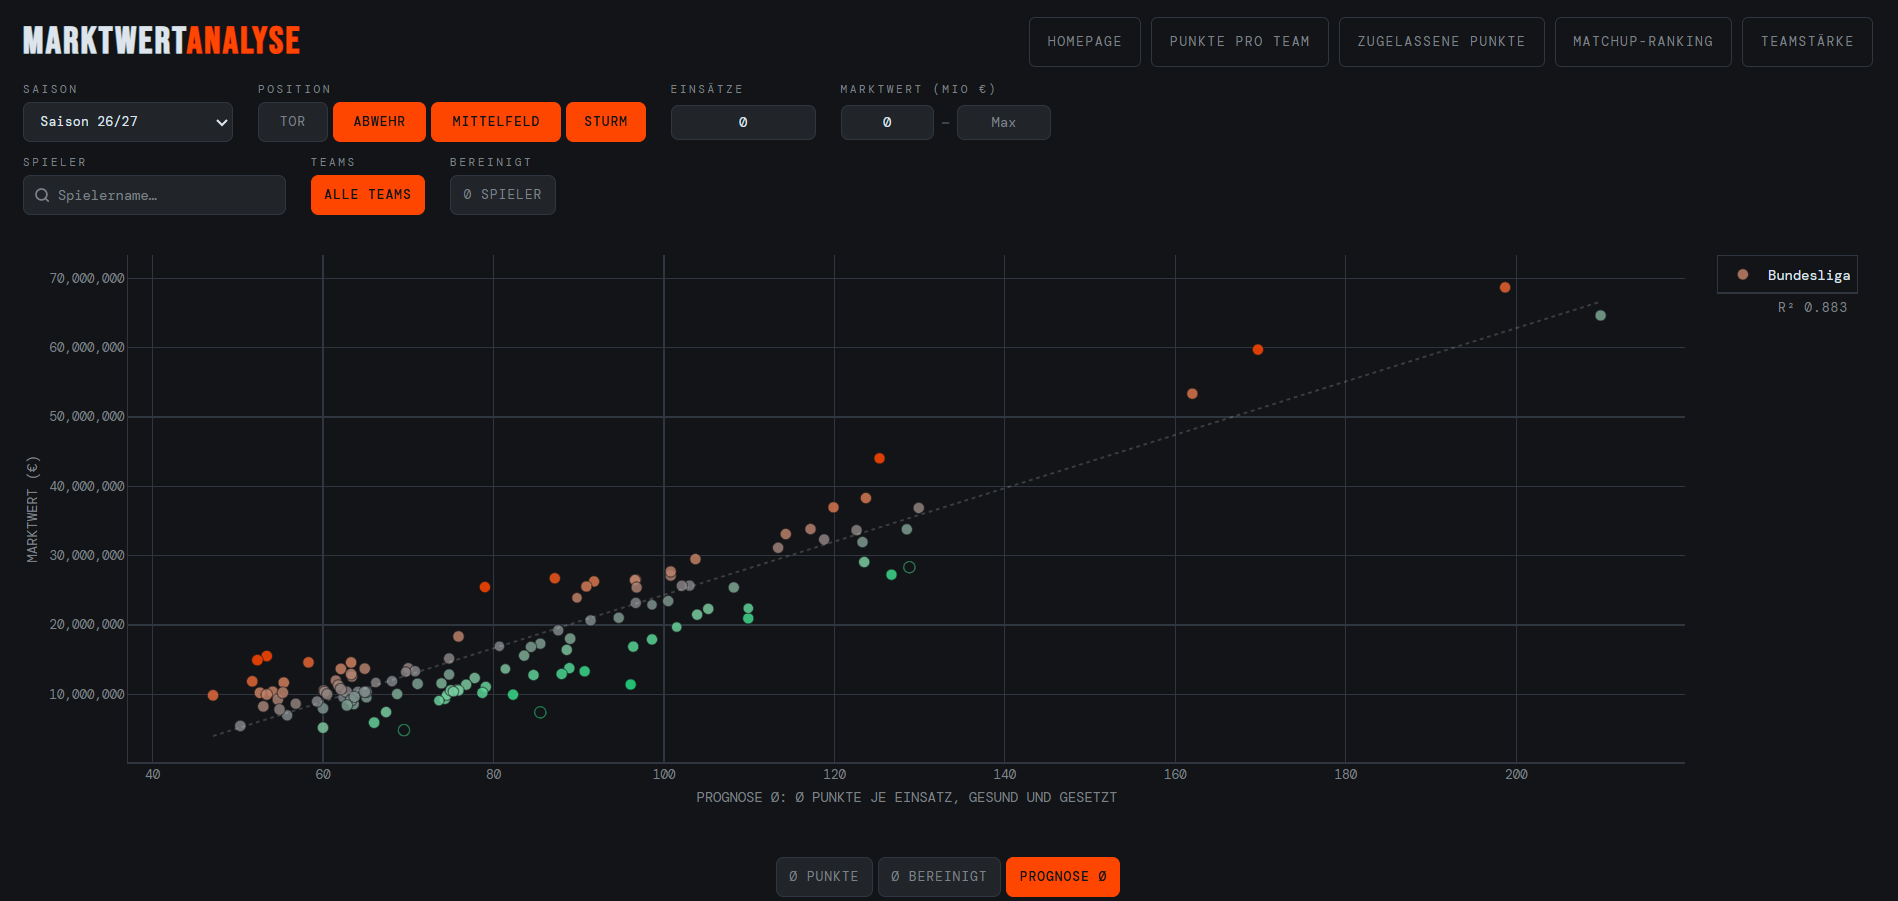
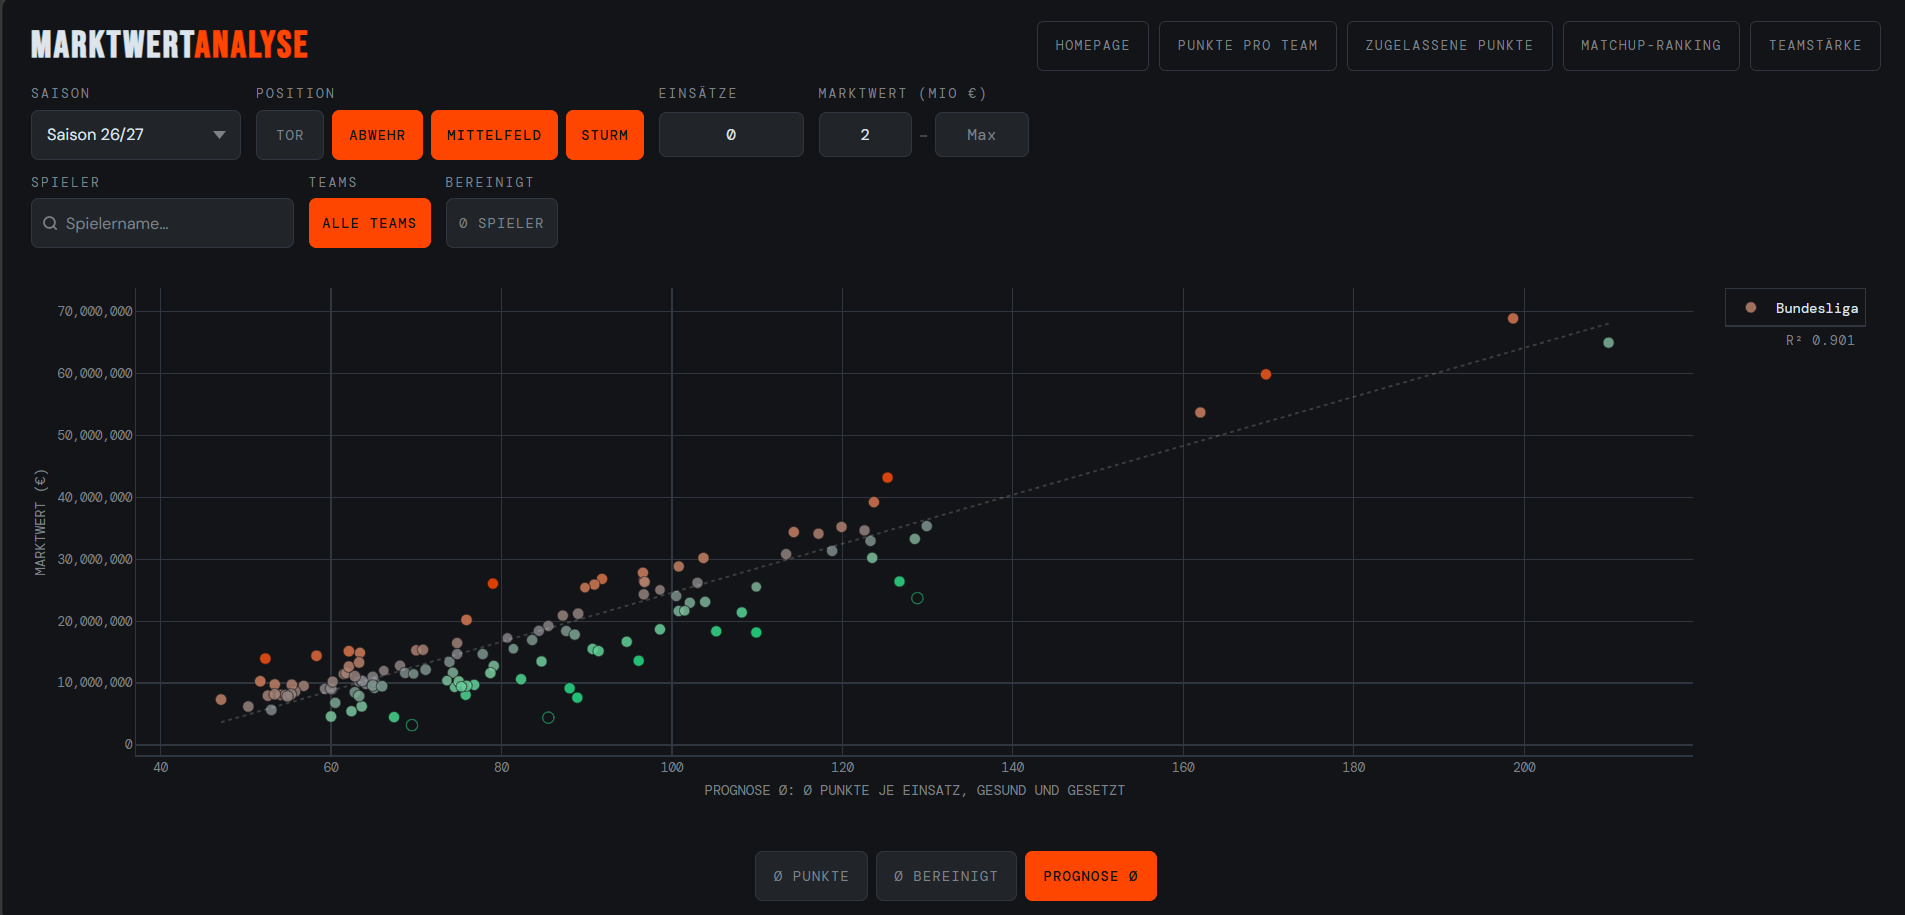
README Überarbeitung
Das README beginnt jetzt mit der Fragestellung und zeigt jedes Werkzeug mit
einem Screenshot; das Architekturdiagramm ist ein Mermaid-Diagramm.
Installation, Tests und Fetcher-Kommandos bleiben vollständig erhalten, stehen
aber in einem aufklappbaren Abschnitt.

diff --git a/README.md b/README.md
@@ -2,60 +2,140 @@
 
 [![CI](https://github.com/noltinho/kickbase-analytics/actions/workflows/ci.yml/badge.svg)](https://github.com/noltinho/kickbase-analytics/actions/workflows/ci.yml)
 
-**[▶ Live-Demo](https://noltinho.github.io/kickbase-analytics/)** — alle
-Werkzeuge laufen direkt im Browser, ohne Installation und ohne Login.
+**[▶ Live-Demo öffnen](https://noltinho.github.io/kickbase-analytics/)** — fünf
+Analysewerkzeuge für Bundesliga und 2. Bundesliga, direkt im Browser, ohne
+Installation und ohne Login.
 
-Statische Analysewerkzeuge für Bundesliga und 2. Bundesliga: Ein Python-Fetcher
-verdichtet Team-, Spieler- und Marktwertdaten, ein gegnerbereinigtes
-Teamstärkemodell bewertet Matchups, und fünf frameworkfreie Werkzeuge machen
-die Ergebnisse direkt im Browser nutzbar.
+## Das Problem
+
+Im Kickbase-Manager entscheidet der Marktwert. Er ist die einzige Zahl, die
+jeder Mitspieler sieht — und er erklärt die spätere Punkteausbeute nur grob:
+Über 1.571 Starter-Spielersaisons kommt eine reine Marktwert- und
+Positionsschätzung auf einen mittleren absoluten Fehler von **19,28 Punkten**.
+
+Dieses Projekt misst stattdessen. Ein gegnerbereinigtes Teamstärkemodell
+bewertet, wie schwer ein Spielplan wirklich ist. Ein Spielermodell schätzt den
+Punkteschnitt eines gesetzten Spielers aus seiner Historie, seinem Umfeld und
+seiner Position — und macht dabei **13,7 % weniger Fehler** als der
+Marktwert allein.
 
 [![Marktwert gegen prognostizierten Punkteschnitt](screenshots/marktwert-prognose.png)](https://noltinho.github.io/kickbase-analytics/scatter.html)
 
-<sub>Marktwert-Analyse: Marktwert gegen den prognostizierten Punkteschnitt je
-Einsatz (Bundesliga 2026/27). Die Prognose stammt aus dem fallweisen
-Spielermodell, R² bezieht sich auf die eingezeichnete Regression.</sub>
+<sub><b>Marktwert-Analyse.</b> Jeder Punkt ein Spieler: Marktwert gegen den
+prognostizierten Punkteschnitt je Einsatz (Bundesliga 2026/27, Feldspieler ab
+2 Mio. €). Wer deutlich unter der Regressionsgeraden liegt, ist für seine
+erwartete Leistung günstig.</sub>
 
-Das Projekt verbindet Datenbeschaffung, robuste Datenmodellierung,
-Walk-forward-Evaluation und eine bewusst schlanke Visualisierung ohne
-Frontend-Buildschritt.
+> Inoffizielles, nicht mit Kickbase oder Transfermarkt verbundenes Forschungs-
+> und Portfolio-Projekt. Hinweise zu Fremddaten und Marken stehen in
+> [NOTICE.md](NOTICE.md).
 
-> Inoffizielles, nicht mit Kickbase oder Transfermarkt verbundenes
-> Forschungs- und Portfolio-Projekt. Hinweise zu Fremddaten und Marken stehen
-> in [NOTICE.md](NOTICE.md).
+## Die Werkzeuge
 
-## Was die Anwendung zeigt
+Jede Oberfläche beantwortet genau eine Frage.
 
-- **Teampunkte:** erzielte Kickbase-Punkte nach Team und Mannschaftsteil
-- **Matchup:** zugelassene Punkte des Gegners, nach Position und Spielort
-- **Matchup-Score:** Spielplanraster von −3 bis +3, wahlweise als Paarungs- oder
-  reine Gegnerstärke
-- **Teamstärke-Editor:** lokale Abweichungen vom Modell, ohne die berechnete
-  Basis zu überschreiben
-- **Marktwert-Analyse:** Marktwert gegen erzielte beziehungsweise prognostizierte
-  Durchschnittspunkte
+### Welche Spieltage werden leicht, welche schwer?
+
+[![Matchup-Ranking](screenshots/ranking.png)](https://noltinho.github.io/kickbase-analytics/score.html)
+
+<sub><b>Matchup-Ranking.</b> Der Spielplan jedes Teams von −3 bis +3, aus dem
+gegnerbereinigten Teamstärkemodell abgeleitet (Bundesliga 2026/27, Spieltage 2
+bis 6). Zu sehen ist die reine Gegnerstärke; die Paarungsstärke lässt sich
+umschalten. Voreingestellt ist der Zeitraum vom nächsten Spieltag bis zum Ende
+der Hinrunde — der Horizont, über den ein Kader geplant wird.</sub>
+
+### Gegen wen lohnt sich welche Position?
+
+[![Zugelassene Punkte](screenshots/matchup.png)](https://noltinho.github.io/kickbase-analytics/matchup.html)
+
+<sub><b>Zugelassene Punkte.</b> Wie viele Punkte eine Mannschaft ihren Gegnern
+erlaubt, aufgeschlüsselt nach Mannschaftsteil und wahlweise nach Position und
+Spielort (Bundesliga 2025/26, alle 34 Spieltage). Zwischen der durchlässigsten
+und der stabilsten Defensive der Liga liegt fast der Faktor drei — 48.535 gegen
+17.425 Punkte.</sub>
+
+### Wo im Kader entstehen die Punkte überhaupt?
+
+[![Punkte pro Team](screenshots/teampunkte.png)](https://noltinho.github.io/kickbase-analytics/teampunkte.html)
+
+<sub><b>Punkte pro Team.</b> Erzielte Punkte je Startelf-Spieler, nach
+Mannschaftsteil und Tabellenplatz (Bundesliga 2025/26). Die Zahl in jedem Feld
+ist der Ligarang des Vereins auf dieser Position. Wechselnde Spieler werden über
+den Spielplan aufgelöst — die Punkte eines Wintertransfers zählen zum Verein,
+für den er an dem Spieltag tatsächlich auflief.</sub>
+
+### Zwei weitere Ansichten
+
+- **Teamstärke-Editor** — eigene Einschätzung gegen das Modell setzen, ohne die
+  berechnete Basis zu verlieren. Abweichungen werden als Differenz gespeichert
+  und auf jede neue Modellbasis übertragen.
+- **Marktwert-Analyse** — das Bild oben, wahlweise gegen erzielte, bereinigte
+  oder prognostizierte Durchschnittspunkte.
 
 Alle Seiten sind statische Dateien. Sie laden ausschließlich versionierte
-JSON-Dateien aus `data/`; persönliche Logins oder Zugangsdaten gelangen nicht
-ins Frontend.
+JSON-Dateien aus `data/`; persönliche Logins oder Zugangsdaten gelangen nie ins
+Frontend.
 
-## Architektur
+## Was belegt ist
 
-```text
-Kickbase v4 ── fetch.py ──► data/data_*.json + matchdays_*.json
-                       └──► history.json ──► carryover.json
+Prognostiziert wird der Punkteschnitt je Einsatz unter der Bedingung, dass ein
+Spieler in der Zielsaison gesetzt ist. Die Evaluation ist strikt walk-forward:
+Für jede Zielsaison werden nur Informationen verwendet, die vor deren Beginn
+bekannt waren.
 
-Archiv + Spielplan + Saisonquoten ──► Teamstärke-Ridge ──► ratings.json
-historisches Panel + Kaderdaten ─────► Spielermodelle ───► projections*.json
+| Modell | MAE | |
+|---|---:|---|
+| **Fallweises Spielermodell** | **16,64** | **13,7 % weniger Fehler** als die Baseline |
+| Marktwert-/Positionsbaseline | 19,28 | Vergleichslinie ohne eigene Spielerhistorie |
 
-data/*.json ──► statische HTML-/JavaScript-Dashboards
+- **1.571 Starter-Spielersaisons** über die Zielsaisons 2019–2025
+- Paarweiser Vorsprung **2,64 MAE-Punkte**, saisongeclustertes
+  95-%-Intervall **2,23 bis 3,00**
+- Gewinnt in **7 von 7** Zielsaisons
+
+Verglichen wurden außerdem Ridge, Spline-Ridge, Extra Trees, Gradient Boosting
+und ein empirisches Bayes-Modell. Der vollständige Vergleich steht in
+[kbxp/player-benchmark.md](kbxp/player-benchmark.md) — dort stehen auch die
+Grenzen: die Fälle, in denen das Modell verzerrt schätzt, und der eine Bereich,
+in dem stumpfes Sortieren nach Vorjahrespunkten knapp vorn liegt.
+
+## Wie es gebaut ist
+
+```mermaid
+flowchart LR
+  API["Kickbase v4<br/>REST-API"] --> F["fetch.py<br/>Ingestion, Bereinigung"]
+  F --> D["data/*.json<br/>Spieler, Spielpläne"]
+  F --> H["history.json<br/>Marktwert-Historie"]
+  H --> C["carryover.json<br/>Vorsaison-Übertrag"]
+
+  D --> TS["Teamstärke<br/>Ridge-Modell"]
+  C --> TS
+  Q["Saisonquoten"] --> TS
+  TS --> R["ratings.json"]
+
+  P["Historisches Panel<br/>+ Kaderdaten, Parquet"] --> PM["Spielermodelle"]
+  PM --> PR["projections*.json"]
+
+  D --> UI["Fünf statische<br/>Dashboards"]
+  R --> UI
+  PR --> UI
 ```
 
-Die Produktionspipeline in `fetch.py` benötigt nur `requests`. Die Forschung
-unter `kbxp/` nutzt zusätzlich pandas, NumPy, SciPy, PyArrow und scikit-learn.
-Das Frontend verwendet kein Framework und keinen Bundler.
+Zwei getrennte Welten: Die Produktionspipeline in `fetch.py` kommt mit
+`requests` aus und schreibt alle veröffentlichten JSON-Dateien atomar. Die
+Forschung unter `kbxp/` nutzt pandas, NumPy, SciPy, PyArrow und scikit-learn.
+Das Frontend verwendet kein Framework, keinen Bundler und keinen Buildschritt.
 
-## Lokal ansehen
+Eine CI-Pipeline prüft bei jedem Push Datenverträge und Plausibilität: dass
+Saisonmanifest, Spielpläne und Spieltagsdaten zueinander passen, dass erzielte
+und zugelassene Punkte sich gegenseitig aufgehen, dass Wechsler dem richtigen
+Verein zugeordnet werden, dass Formularelemente zugängliche Namen haben und
+externe Skripte versionsgepinnt mit Integritätsprüfung geladen werden.
+
+<details>
+<summary><b>Installation, Tests und Datenaktualisierung</b></summary>
+
+### Lokal ansehen
 
 Direktes Öffnen per `file://` funktioniert wegen der Browser-Sicherheitsregeln
 für `fetch()` nicht zuverlässig. Im Projektverzeichnis genügt ein lokaler
@@ -67,7 +147,7 @@ python -m http.server 8000
 
 Danach `http://localhost:8000/` öffnen.
 
-## Installation und Tests
+### Installation und Tests
 
 ```bash
 python -m venv .venv
@@ -86,19 +166,19 @@ Forschungstests laufen zusätzlich mit:
 python -m pytest
 ```
 
-`requirements.lock` hält den geprüften Stand exakt fest;
-`requirements.txt` enthält die bewusst breiteren direkten Anforderungen für
-kontrollierte Aktualisierungen.
+`requirements.lock` hält den geprüften Stand exakt fest; `requirements.txt`
+enthält die bewusst breiteren direkten Anforderungen für kontrollierte
+Aktualisierungen.
 
 `kbxp/data/manual/tm_players.csv` wird bewusst nicht veröffentlicht. Tests, die
 den vollständigen Transfermarkt-Crawl benötigen, werden in einem frischen Klon
 mit sichtbarer Begründung übersprungen. Die übrigen Daten- und Modellverträge
 bleiben prüfbar.
 
-## Daten aktualisieren
+### Daten aktualisieren
 
 Zugangsdaten gehören ausschließlich in Umgebungsvariablen oder eine lokale
-`.env`-Datei; beides wird von Git ignoriert.
+`.env`-Datei; beides wird von Git ignoriert. `.env.example` zeigt das Format.
 
 ```bash
 python fetch.py                         # laufende Saison
@@ -112,10 +192,6 @@ Der Fetcher schreibt veröffentlichte JSON-Dateien atomar. Ein Abbruch während
 des Schreibens beschädigt daher insbesondere die nicht nachholbare
 `history.json` nicht.
 
-Forschungs- und Modellkommandos sind in [AGENTS.md](AGENTS.md) dokumentiert;
-der unabhängige Modellvergleich steht in
-[kbxp/player-benchmark.md](kbxp/player-benchmark.md).
-
 Das fallweise Spielermodell lässt sich getrennt für beide Ligen exportieren:
 
 ```bash
@@ -125,7 +201,9 @@ python -m src.model.player_avg --liga 2         # Liga 2
 python -m src.model.player_avg --liga 2 --backtest
 ```
 
-## Modellierung in Kürze
+</details>
+
+## Modellierung im Detail
 
 Die Teamstärke wird als Ridge-Modell geschätzt:
 
@@ -133,29 +211,18 @@ Die Teamstärke wird als Ridge-Modell geschätzt:
 zugelassene Punkte = Ligamittel + eigene Abwehr + gegnerischer Angriff + Heimvorteil
 ```
 
-Die Evaluation ist strikt walk-forward: Für einen Spieltag oder eine
-Zielsaison werden nur Informationen verwendet, die zu diesem Zeitpunkt bekannt
-waren. Marktquoten dienen als Vorsaison-Prior; ihre mehrminütige Monte-Carlo-
-Inversion wird anhand aller fachlichen Eingänge gecacht.
+Marktquoten dienen als Vorsaison-Prior; ihre mehrminütige Monte-Carlo-Inversion
+wird anhand aller fachlichen Eingänge gecacht.
 
-Die Spielermodelle beantworten zwei getrennte Fragen: ein Rollenmodell zerlegt
+Die Spielermodelle beantworten zwei getrennte Fragen: Ein Rollenmodell zerlegt
 den Ertrag in Qualität und erwartete Einsatzzeit, das fallweise Modell schätzt
-den Punkteschnitt für gesetzte Spieler abhängig von verfügbarer Historie. Das
-fallweise Modell verwendet in beiden Ligen dieselbe fachliche Struktur, fittet
-Koeffizienten, Teamniveaus und Kalibrierung aber getrennt. In Liga 2 ersetzt
-eine walk-forward geprüfte Starter-Logistik die dort fehlenden handgepflegten
-Kategorien. Die
-gemessenen Grenzen und Vergleichsmodelle sind nicht aus dem README ausgelagert,
-sondern im Benchmark nachvollziehbar.
+den Punkteschnitt für gesetzte Spieler abhängig von verfügbarer Historie. Beide
+Ligen teilen dieselbe fachliche Struktur, fitten Koeffizienten, Teamniveaus und
+Kalibrierung aber getrennt. In Liga 2 ersetzt eine walk-forward geprüfte
+Starter-Logistik die dort fehlenden handgepflegten Kategorien.
 
-Als flächendeckende Vergleichslinie dient eine einfache
-**Marktwert-/Positionsbaseline**. Sie wird je Zielsaison ausschließlich auf
-früheren Saisons geschätzt und verwendet den Marktwert sowie den kategorialen
-Positions- und Fallkontext. Ihr MAE beträgt 19,28, der des fallweisen Modells
-16,64. Auf der gemeinsamen Maske von 1.571 Starter-Spielersaisons liegt das
-fallweise Modell paarweise um 2,64 MAE-Punkte vorn
-(saisongeclustertes 95-%-Intervall 2,23 bis 3,00) und gewinnt in allen sieben
-Zielsaisons. Aufbau, weitere Baselines und Aufschlüsselungen stehen in
+Architektur, Datenfluss und Forschungskommandos sind in [AGENTS.md](AGENTS.md)
+dokumentiert, der unabhängige Modellvergleich in
 [kbxp/player-benchmark.md](kbxp/player-benchmark.md).
 
 ## Repository-Struktur
